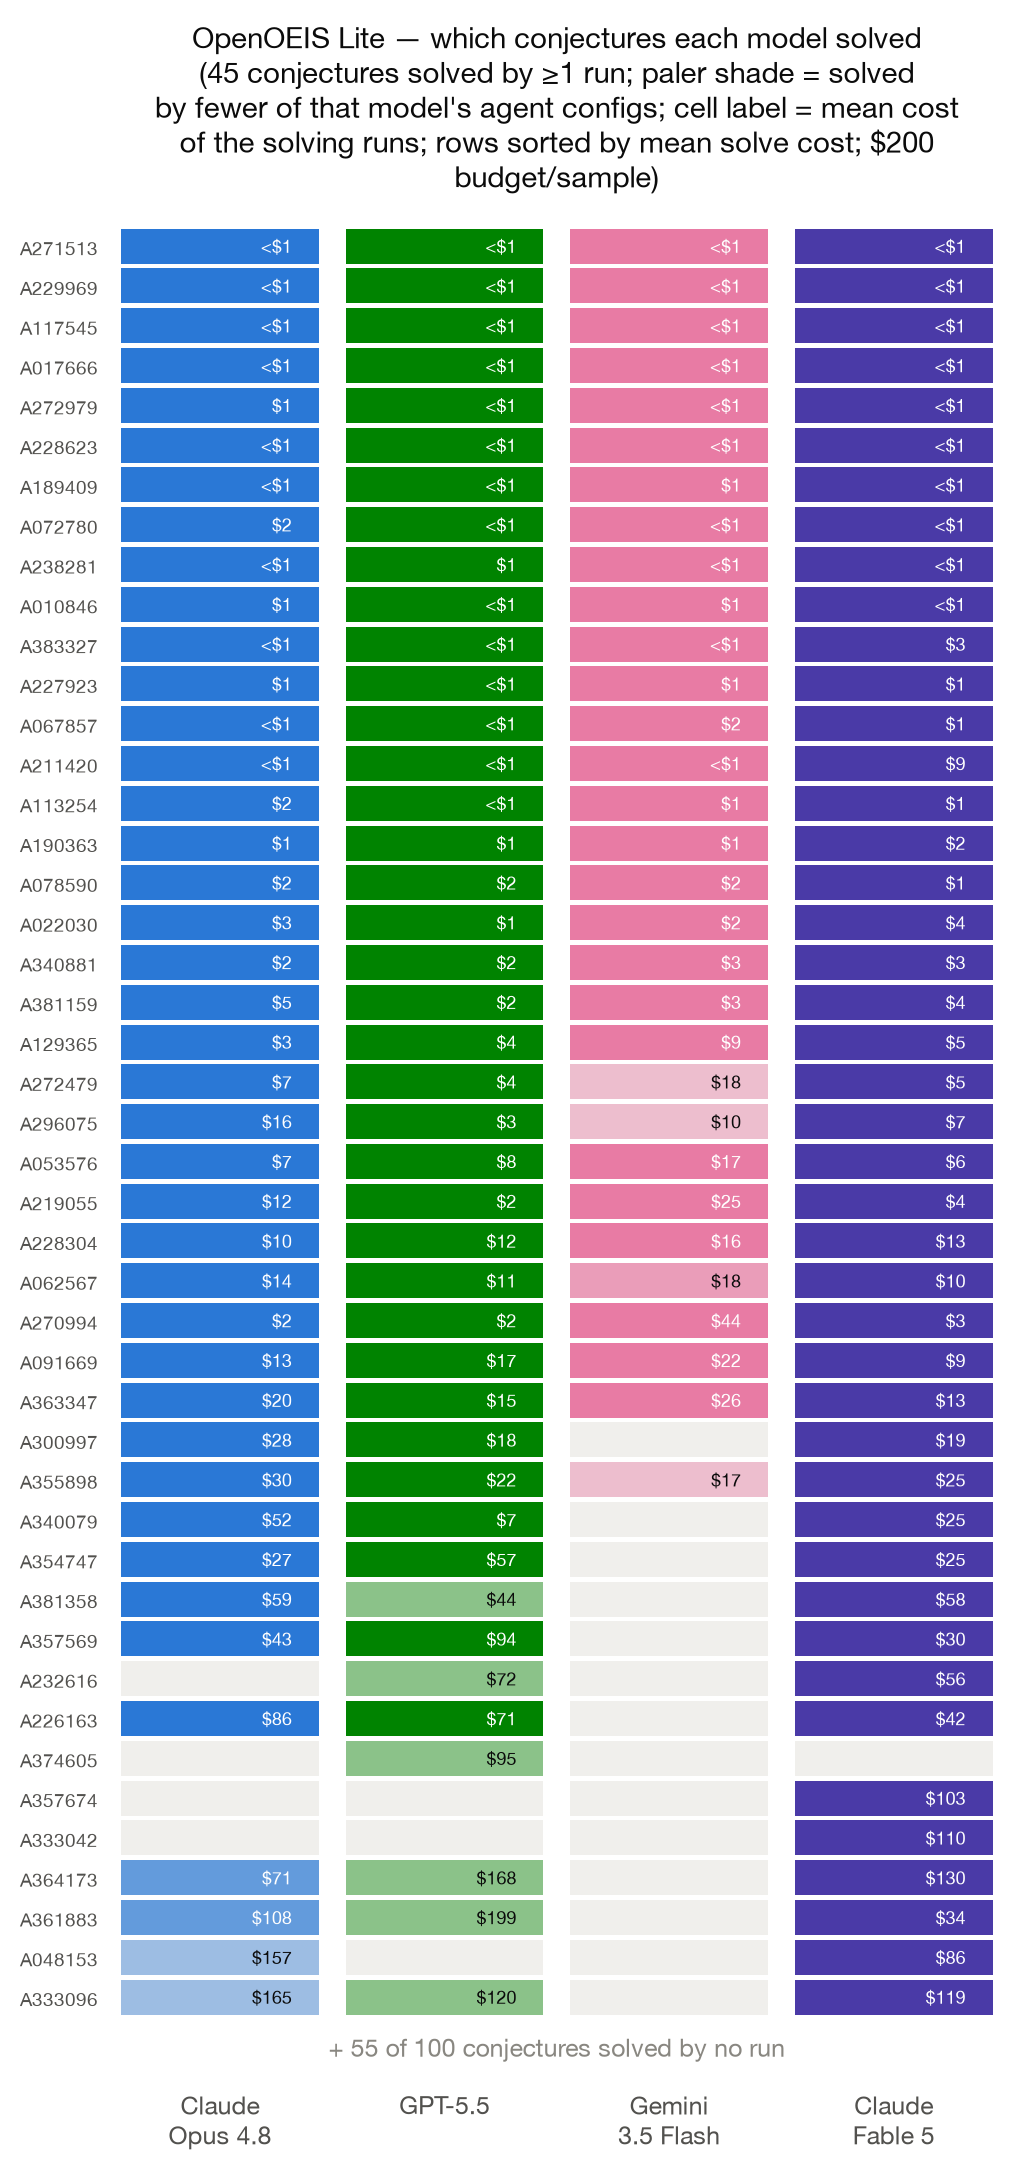
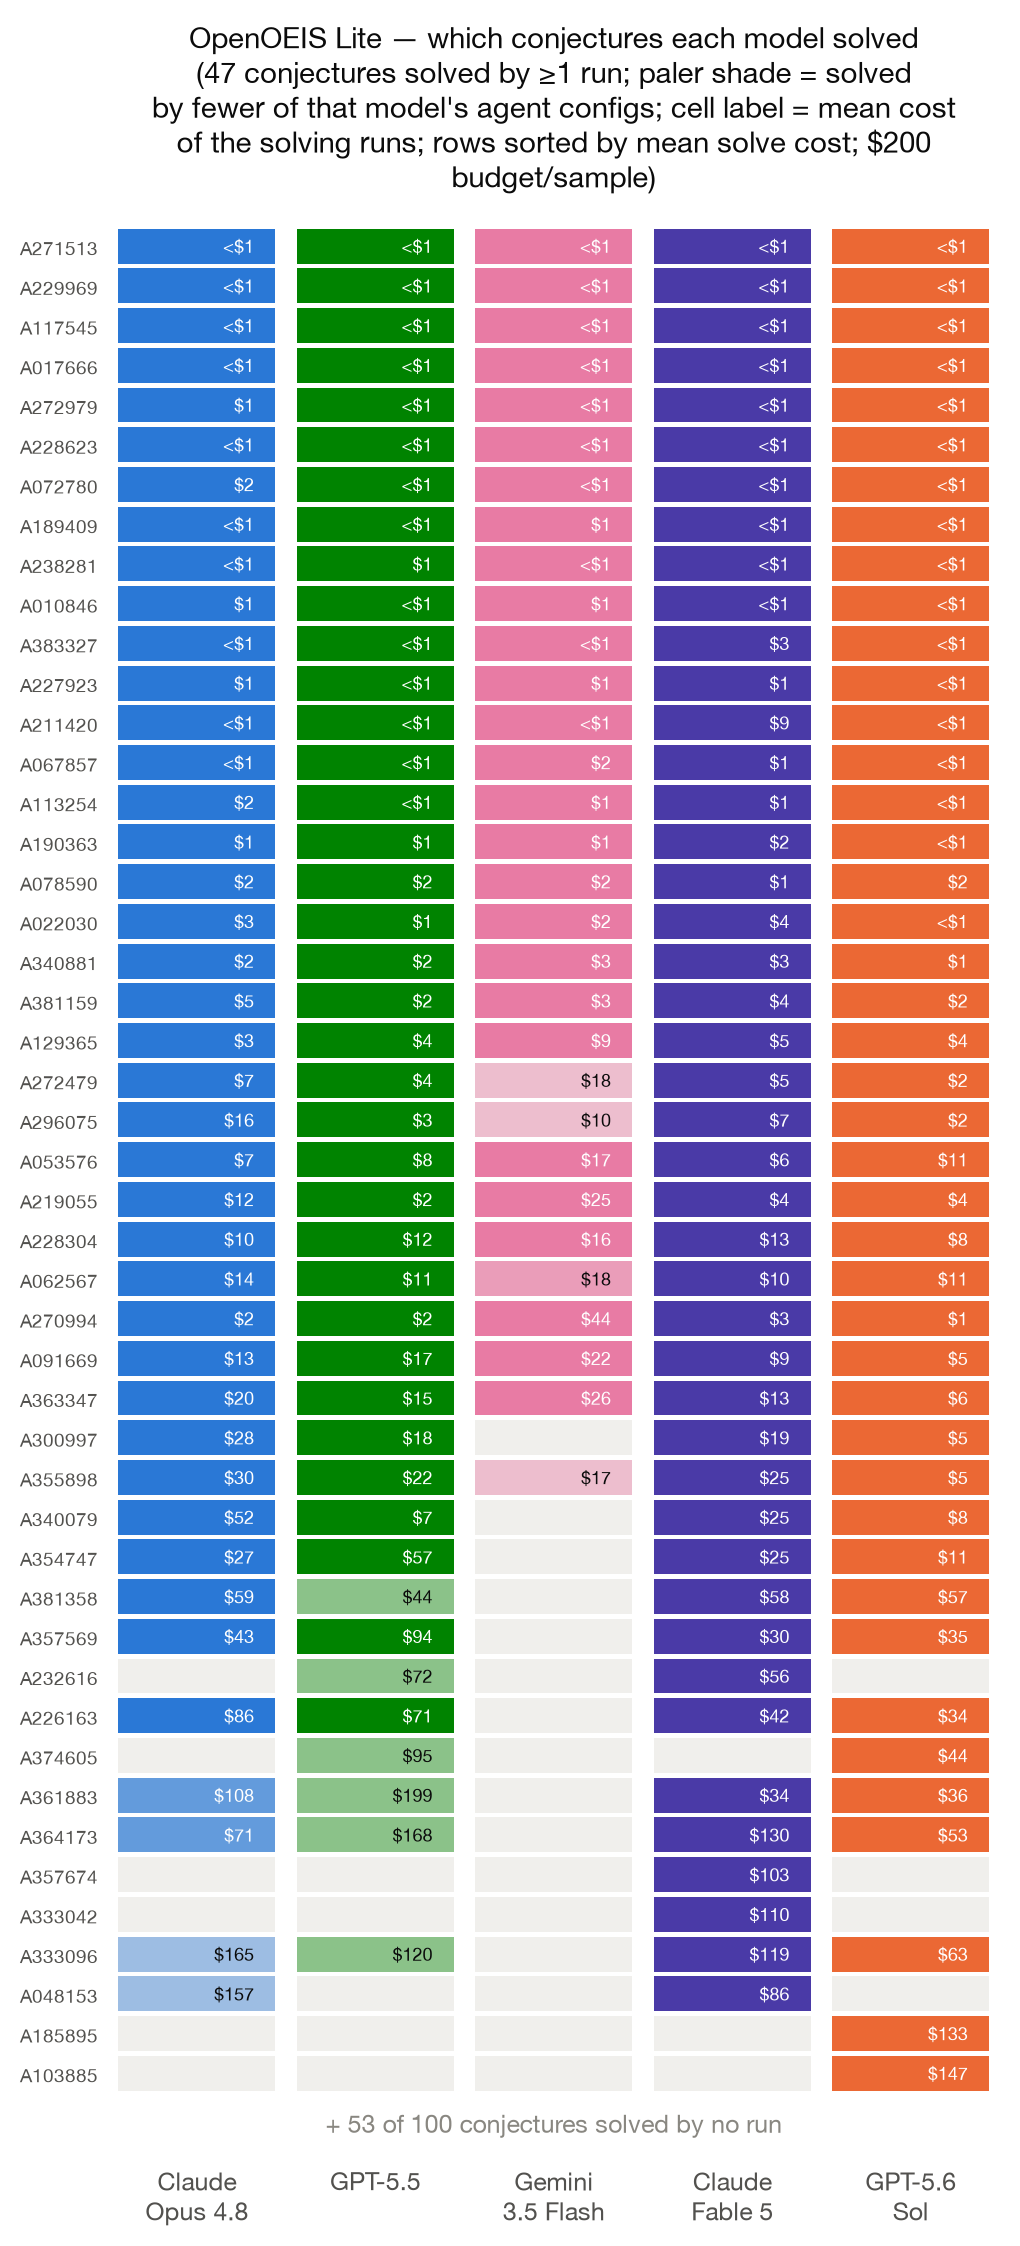
Add GPT-5.6 Sol to sample-level plots; tolerate unscored samples as failures

diff --git a/plots/make_sample_plots.py b/plots/make_sample_plots.py
@@ -62,9 +62,9 @@ for top in sorted(LOGS.glob("*/*_plaintext/scores.json")):
         continue
     runs[key] = key
     for sd in sample_dirs:
-        sc = json.loads((sd / "scores.json").read_text())["proof_scorer"]
+        sc = json.loads((sd / "scores.json").read_text()).get("proof_scorer")
         info = json.loads((sd / "info.json").read_text())
-        md = sc.get("metadata") or {}
+        md = (sc.get("metadata") if sc else None) or {}
         modes = set()
         report = md.get("safeverify_report") or []
         for entry in report if isinstance(report, list) else []:
@@ -85,7 +85,7 @@ for top in sorted(LOGS.glob("*/*_plaintext/scores.json")):
             elif fm is not None:
                 modes.add(str(fm))
         samples[key][sd.name] = dict(
-            solved=sc["value"] == "C",
+            solved=bool(sc) and sc["value"] == "C",
             stage=md.get("stage"),
             modes=sorted(modes),
             cost=sum(u.get("total_cost", 0) for u in (info.get("model_usage") or {}).values()),
@@ -248,7 +248,7 @@ def pooled_shares(keys, extract):
     return {c: v / denom for c, v in total.items()}
 
 def stage_extract(recs):
-    fails = [r for r in recs.values() if not r["solved"]]
+    fails = [r for r in recs.values() if not r["solved"] and r["stage"] is not None]
     return Counter(r["stage"] for r in fails), len(fails)
 
 def mode_extract(recs):
